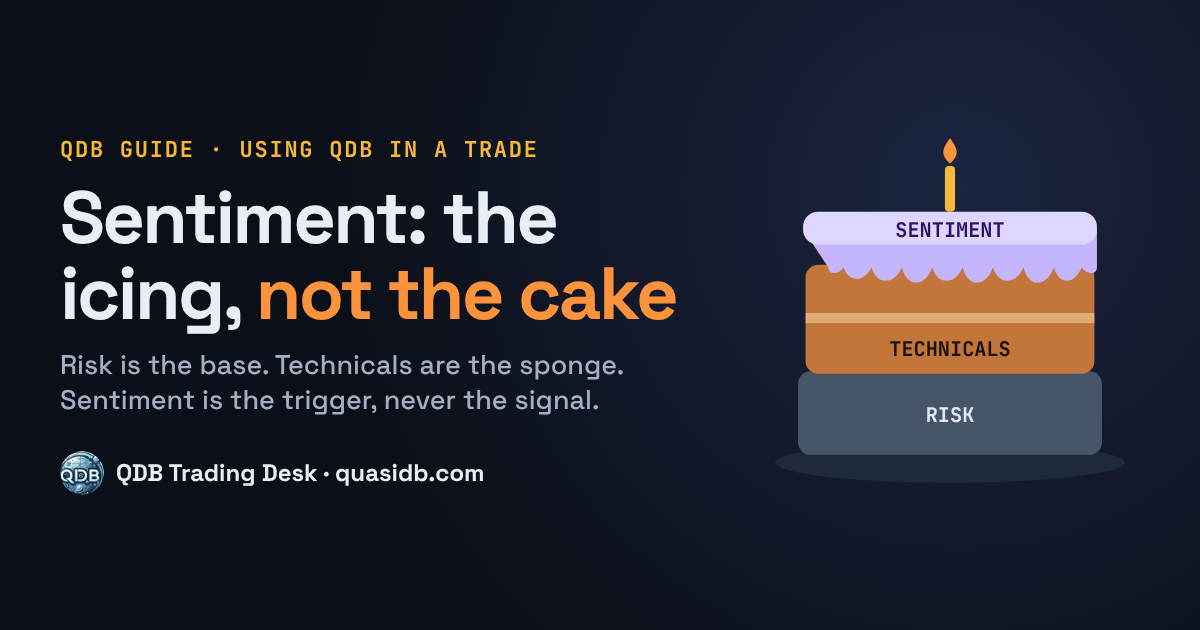
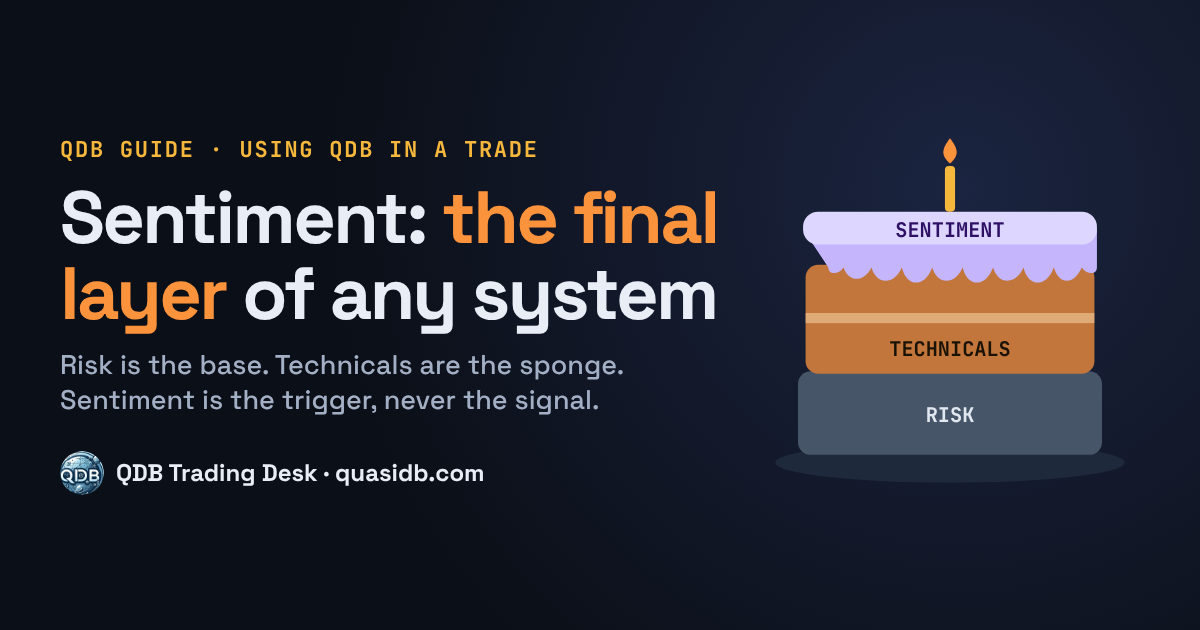
Retitle guide to 'Sentiment: the final layer of any trading system'; note 10-day BE window and work-in-progress test
Claude-Session: https://claude.ai/code/session_01WQVbTpAAXGh2sF84Cnv1GT

Changed region(s): [[0.0308, 0.4222, 0.6167, 0.5429], [0.37, 0.3016, 0.6167, 0.3921]]

diff --git a/guides/sentiment-in-a-system/index.html b/guides/sentiment-in-a-system/index.html
@@ -3,19 +3,19 @@
 <head>
 <meta charset="utf-8">
 <meta name="viewport" content="width=device-width, initial-scale=1, viewport-fit=cover">
-<title>How to use sentiment in a trade: the icing, not the cake | QDB Guides</title>
+<title>Sentiment: the final layer of any trading system | QDB Guides</title>
 <meta name="description" content="Where retail sentiment and fundamentals fit in a trading system. Risk management is the base, technicals are the sponge, sentiment is the icing. Common technical-analysis traps, a step-by-step pre-trade checklist, and how the QDB Sheet helps define an edge.">
 <link rel="canonical" href="https://quasidb.com/guides/sentiment-in-a-system/">
 <meta property="og:type" content="article">
 <meta property="og:site_name" content="QDB Trading Desk">
 <meta property="og:url" content="https://quasidb.com/guides/sentiment-in-a-system/">
-<meta property="og:title" content="Sentiment in a trade: the icing, not the cake">
+<meta property="og:title" content="Sentiment: the final layer of any trading system">
 <meta property="og:description" content="Risk is the base, technicals are the sponge, sentiment is the icing. The steps to follow before you place a trade, and where the QDB Sheet fits.">
 <meta property="og:image" content="https://quasidb.com/guides/sentiment-in-a-system/og.png">
 <meta property="og:image:width" content="1200">
 <meta property="og:image:height" content="630">
 <meta name="twitter:card" content="summary_large_image">
-<meta name="twitter:title" content="Sentiment in a trade: the icing, not the cake">
+<meta name="twitter:title" content="Sentiment: the final layer of any trading system">
 <meta name="twitter:description" content="Risk is the base, technicals are the sponge, sentiment is the icing. The steps to follow before you place a trade, and where the QDB Sheet fits.">
 <meta name="twitter:image" content="https://quasidb.com/guides/sentiment-in-a-system/og.png">
 <meta name="theme-color" content="#0b0f17">
@@ -83,7 +83,7 @@
 <main class="wrap">
   <header class="hero">
     <p class="kick">QDB Guide · Using QDB in a trade · about 10 minutes</p>
-    <h1>Sentiment in a trade: <em>the icing, not the cake</em></h1>
+    <h1>Sentiment: <em>the final layer of any trading system</em></h1>
     <p class="lead">The question we're asked most is <b>"how do I use your tool to put a trade on?"</b> The honest answer: QDB isn't one tool, and it isn't a signal service. Retail sentiment is a <b>trigger to execute inside a trading system you already have</b>. This guide shows where it fits, the technical traps it helps you avoid, and the exact steps to run through before you click buy or sell.</p>
     <nav class="toc" aria-label="On this page">
       <a href="#cake">The cake</a><a href="#steps">Before you trade</a><a href="#why">Why sentiment</a><a href="#breakout">Fake breakouts</a><a href="#round">Round numbers</a><a href="#pitfalls">TA pitfalls</a><a href="#edge">QDB edges</a><a href="#snapback">The snapback</a>
@@ -194,16 +194,16 @@
     <p>Notice what happened there. The crowd was 80% long, so the contrarian read said <b>sell</b>. The snapback said <b>buy</b>, back up to the shorts' break-even. Both were "sentiment". The strong daily demand zone decided which one to act on. That's sentiment working inside a system rather than as a signal.</p>
     <div class="card" style="margin-top:18px">
       <h3>What the BE Memory tab has recorded</h3>
-      <p class="muted" style="margin-top:6px">The 🧠 BE Memory tab logs every time a minority side moves at least 10 pips into profit, then watches whether price returns to that side's break-even within the time limit. Figures at the time of writing (20 November 2026):</p>
+      <p class="muted" style="margin-top:6px">The 🧠 BE Memory tab logs every time a minority side moves at least 10 pips into profit, then watches whether price returns to that side's break-even within the time limit. The window started at 20 days; it was tightened to 10 days for a fairer, stricter test, because a lot can happen in 20 days. Figures at the time of writing (20 November 2026):</p>
       <div class="stat">
         <div><b>17</b><span>break-evens watched</span></div>
         <div><b>17</b><span>reached</span></div>
         <div><b>0</b><span>expired</span></div>
         <div><b>~32h</b><span>average time to reach</span></div>
       </div>
-      <p class="muted" style="margin-top:12px">In Dave's testing so far, <b style="color:var(--text)">every recorded minority break-even has been revisited within the time limit</b>. Subscribers can watch the live tally on the tab.</p>
+      <p class="muted" style="margin-top:12px">In Dave's testing so far, <b style="color:var(--text)">every recorded minority break-even has been revisited within the 10-day window</b>. Subscribers can watch the live tally on the tab.</p>
     </div>
-    <div class="note"><h4>Read this before you trade it</h4><p>It's a <b>tested observation, not a guarantee</b>. The history is short and the sample is small, prices are checked at each recalculation, and past results don't predict future ones. Most importantly, <b>price reaching a break-even is not the same as your trade winning</b>: it can hit your stop first. That's why the snapback is a target and a filter, used at a strong level with a proper stop, never a reason to enter on its own.</p></div>
+    <div class="note"><h4>Read this before you trade it</h4><p>It's a <b>tested observation, not a guarantee</b>. The history is short and the sample is small, prices are checked at each recalculation, and past results don't predict future ones. Most importantly, <b>price reaching a break-even is not the same as your trade winning</b>: it can hit your stop first. That's why the snapback is a target and a filter, used at a strong level with a proper stop, never a reason to enter on its own. The automated test that trades towards the break-even is still a work in progress, with rules being refined as it runs (for example, no trade when the stop would be under 15 pips away).</p></div>
   </section>
 
   <section class="sec" id="example">

diff --git a/guides/index.html b/guides/index.html
@@ -86,7 +86,7 @@ a.guide:hover{border-color:var(--accent);transform:translateY(-3px)}
 /* ===== Add a guide: put it in GUIDES. live:false shows it as "coming soon".
    pinned:true always shows it first, full width, with a gold border, wherever it sits in the list. ===== */
 const GUIDES=[
-  {slug:"sentiment-in-a-system",title:"Sentiment in a trade: the icing, not the cake",tag:"Start here",live:true,feature:true,
+  {slug:"sentiment-in-a-system",title:"Sentiment: the final layer of any trading system",tag:"Start here",live:true,feature:true,
    blurb:"How to actually use QDB in a trade. Risk is the base, technicals are the sponge, sentiment is the icing. The steps to run before you click, the TA traps it saves you from, and the minority break-even snapback.",go:"Read the guide"},
   {slug:"order-book",title:"The Order Book, made simple",tag:"Order Book",live:true,feature:true,
    blurb:"What the two histograms mean, when they point to a buy or a sell, and why they only work at strong daily and weekly levels. Five animated examples you can step through.",go:"Read the guide"},
